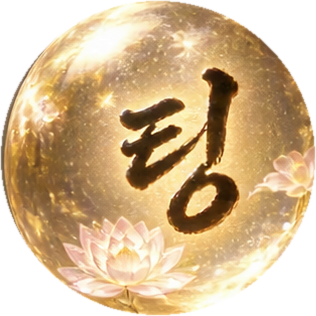
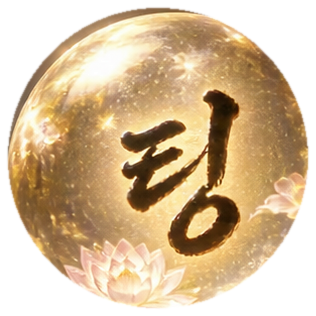
Add files via upload

diff --git a/index.html b/index.html
@@ -260,6 +260,11 @@
 .ball,.drop-preview,.next-ball{border:0!important;background:none!important;box-shadow:none!important}
 .ball::after,.drop-preview::after,.next-ball::after{content:none!important;display:none!important}
 .drop-preview{transform:translateX(-50%)!important}
+
+.ball,.drop-preview,.next-ball{border:0!important;background:none!important;box-shadow:none!important;filter:none!important}
+.ball::before,.drop-preview::before,.next-ball::before{background:var(--marble) center / contain no-repeat!important;transform:none!important;filter:none!important;opacity:1!important;box-shadow:none!important}
+.ball::after,.drop-preview::after,.next-ball::after{display:none!important;content:none!important}
+.ball .marble-letter,.drop-preview .marble-letter,.next-ball .marble-letter{display:none!important}
 </style></head><body><div class="app">
 <header class="hero"><div class="brand"><div class="crest">滅</div><div><div class="eyebrow">THE MUNPA · MELCHEON</div><h1>멸천 문파</h1><div class="sub">하늘을 넘어, 함께 나아가다</div></div></div></header>
 <main>
